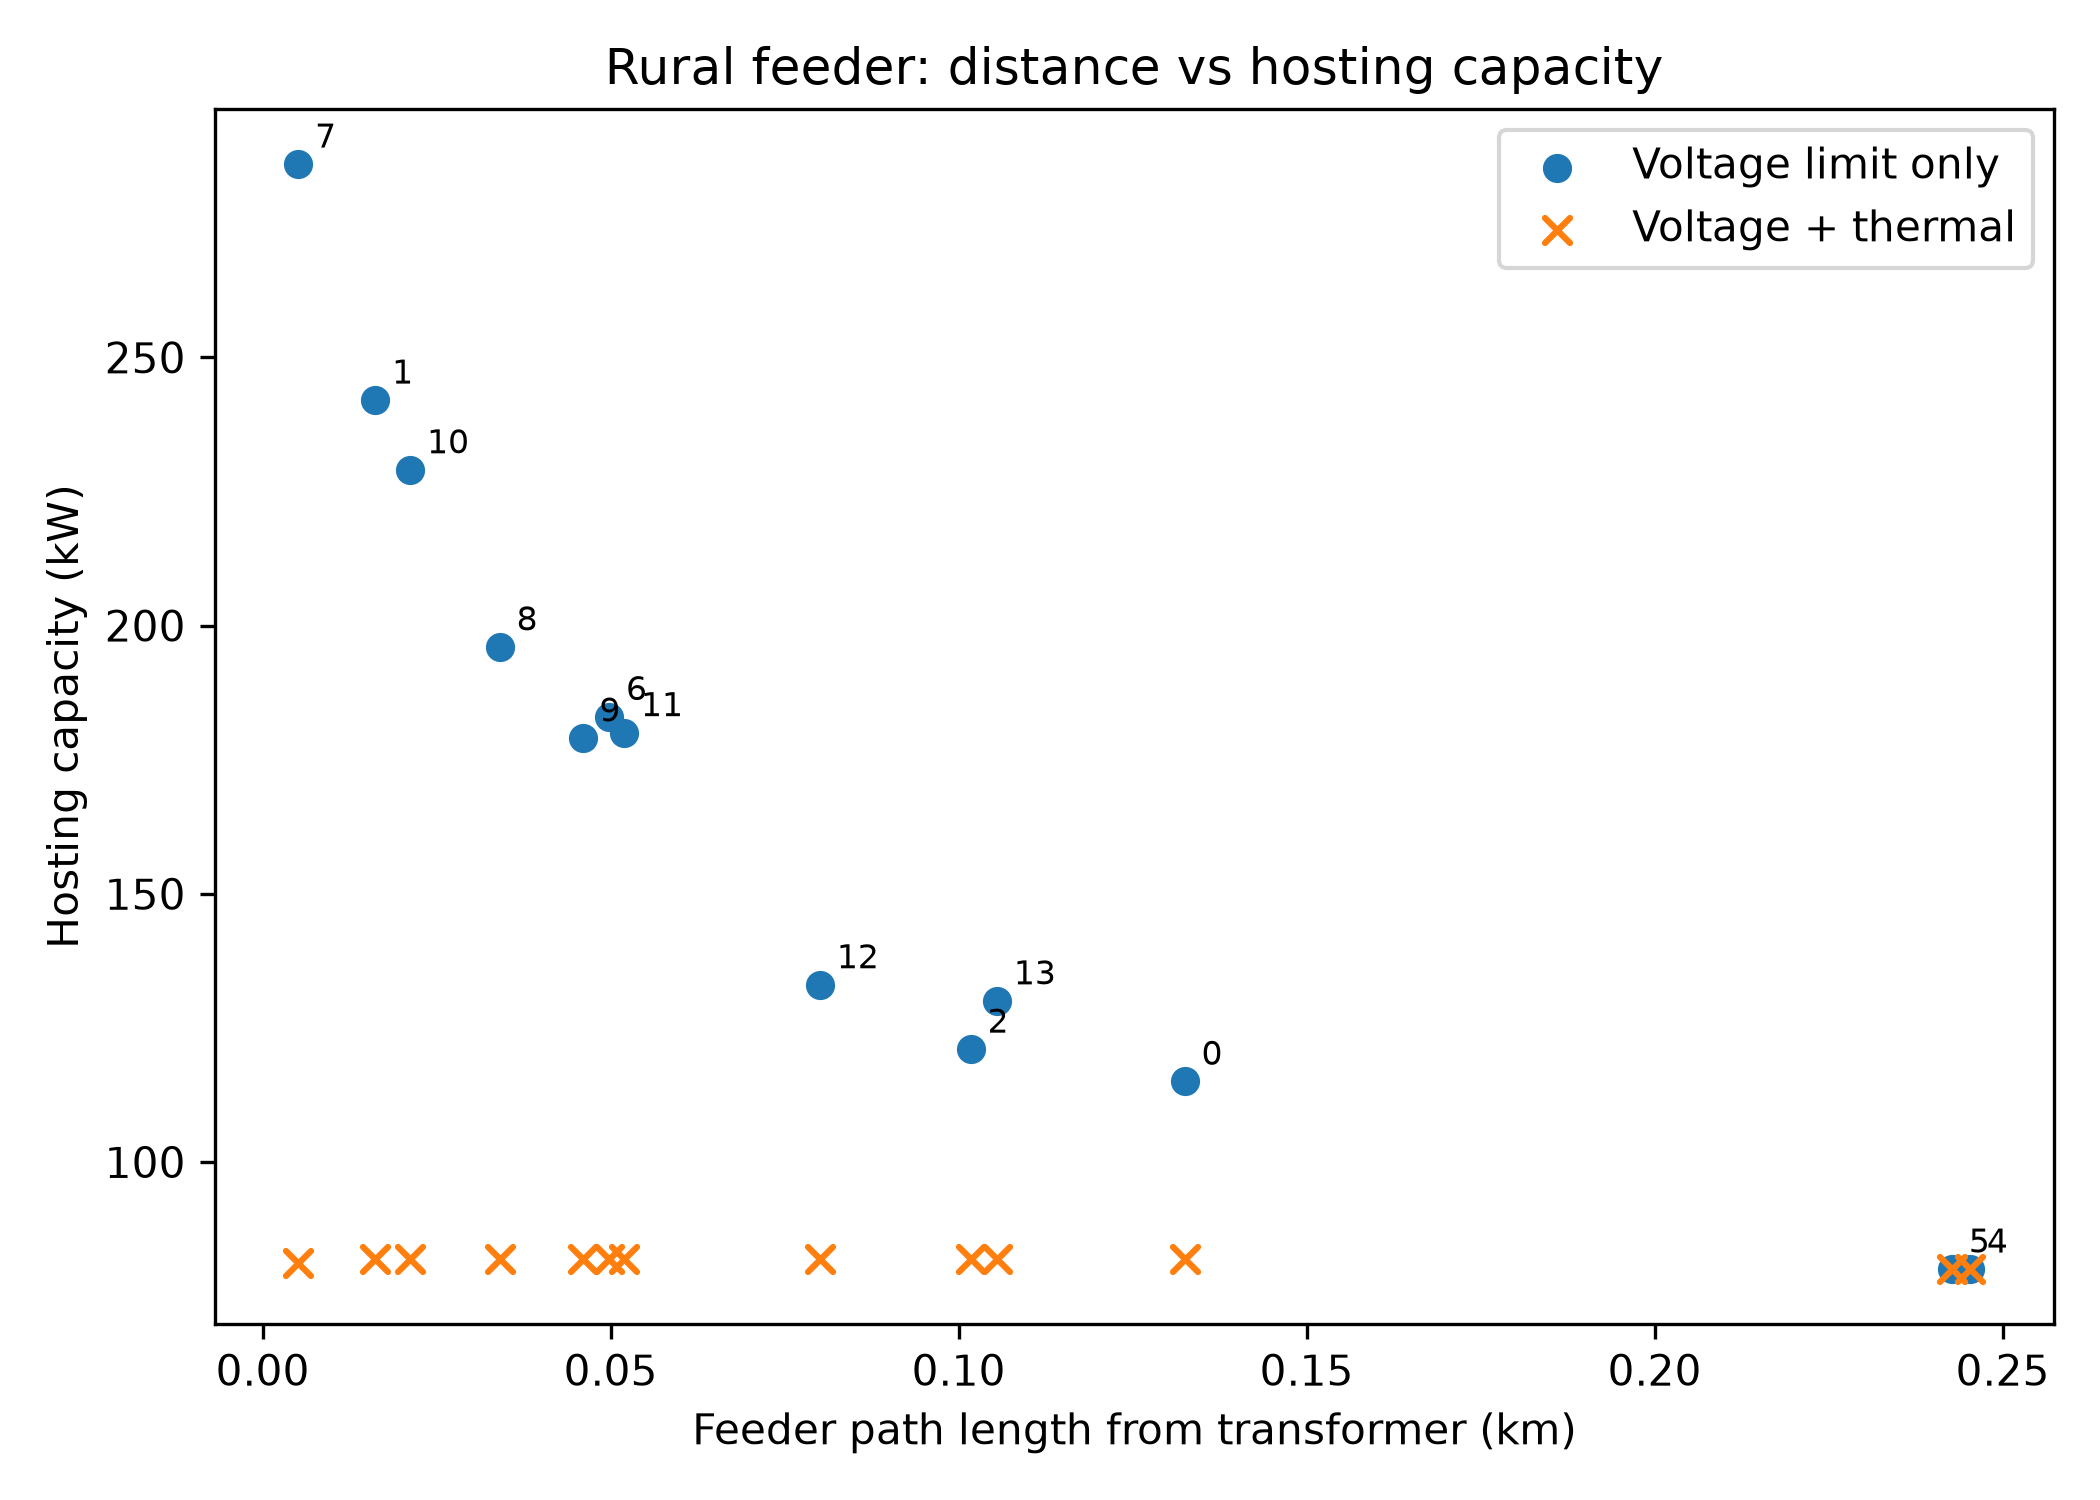
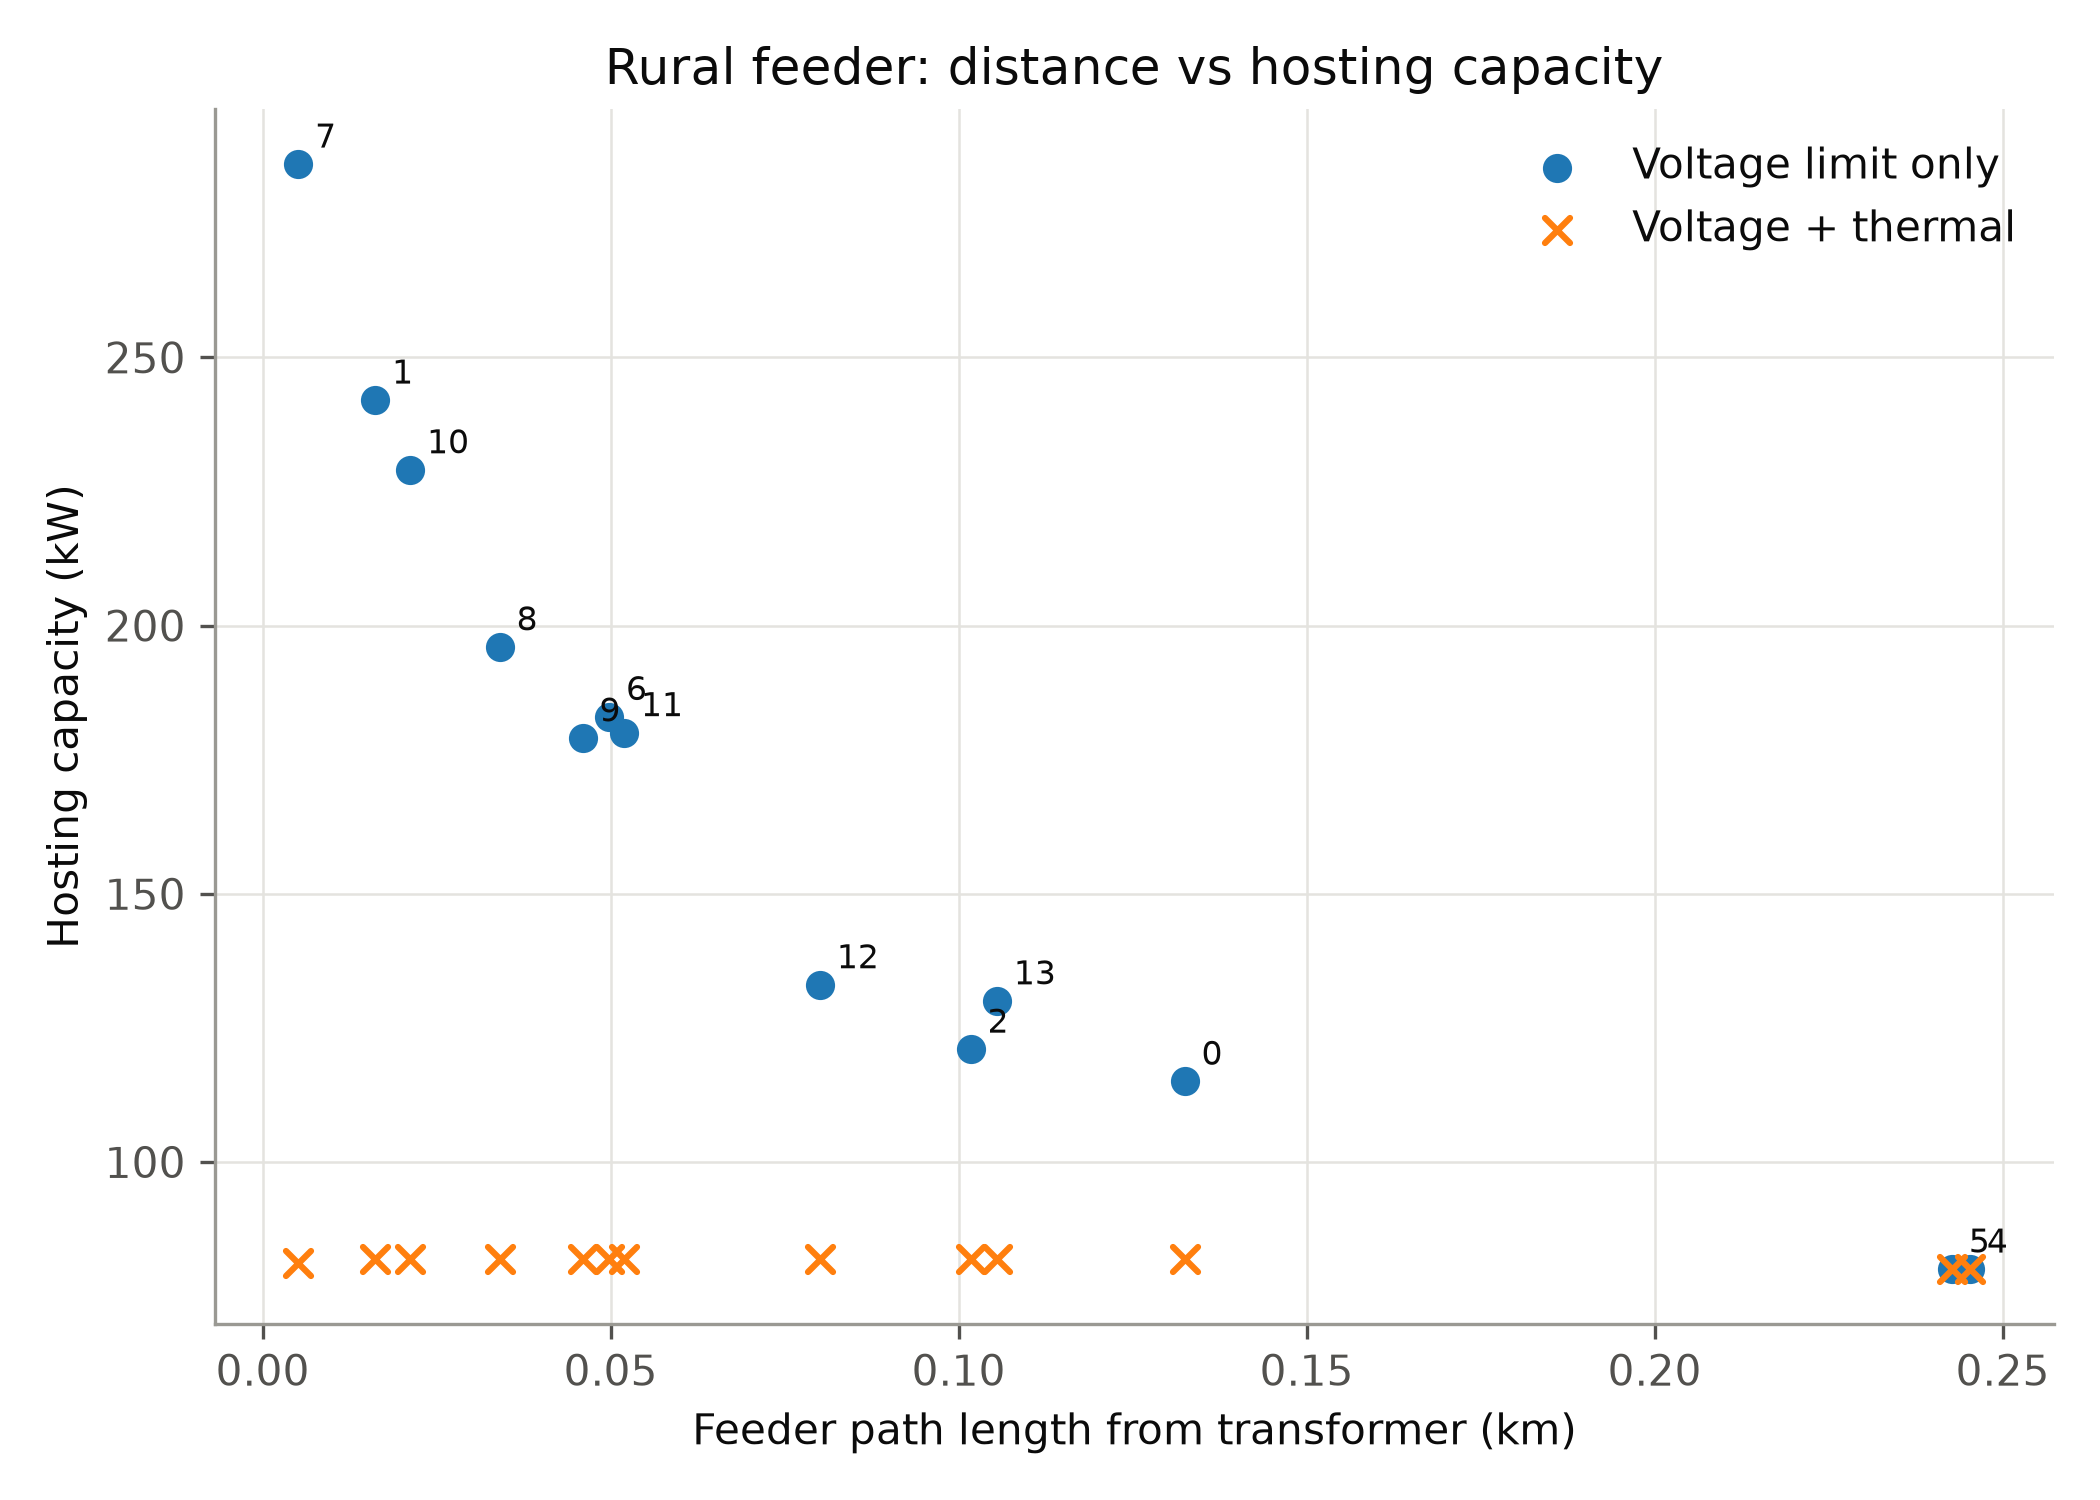
Final figures from sensitivity analysis

diff --git a/scripts/07_generate_figures.py b/scripts/07_generate_figures.py
@@ -4,48 +4,135 @@ import matplotlib.pyplot as plt
 import simbench as sb
 import pandapower.topology as top
 
-# ---------- Data ----------
-rural = pd.read_csv("results/hosting_capacity_full_comparison.csv")
-rural_th = pd.read_csv("results/rural_baseline_thermal.csv").rename(
-    columns={"hosting_capacity_kW": "baseline_thermal_kW"})
-rural = rural.merge(rural_th, on="bus").sort_values("baseline_kW").reset_index(drop=True)
-urban = pd.read_csv("results/urban_full_comparison.csv").sort_values("baseline_kW").reset_index(drop=True)
+# ---------- Style (fixed colour per control strategy across all figures) ----------
+C_NC, C_VVAR, C_VWA = "#2a78d6", "#eb6834", "#4a3aa7"   # no control, Volt-VAr, Volt-Watt adapted
+C_VWA_LIGHT = "#cfc9ee"                                  # light tint of Volt-Watt adapted (nameplate)
+INK, MUTED, GRID = "#0b0b0b", "#52514e", "#e4e3df"
 
-# ---------- Figure 1: Rural feeder, four cases ----------
-x = np.arange(len(rural))
-w = 0.2
-fig, ax = plt.subplots(figsize=(11, 5))
-ax.bar(x - 1.5 * w, rural["baseline_kW"], w, label="No control (voltage limit only)")
-ax.bar(x - 0.5 * w, rural["baseline_thermal_kW"], w, label="No control (voltage + thermal)")
-ax.bar(x + 0.5 * w, rural["voltvar_kW"], w, label="Volt-VAr (voltage + thermal)")
-ax.bar(x + 1.5 * w, rural["voltwatt_kW"], w, label="Volt-Watt (voltage + thermal)")
-ax.set_xticks(x)
-ax.set_xticklabels(rural["bus"])
-ax.set_xlabel("Bus")
-ax.set_ylabel("Hosting capacity (kW)")
-ax.set_title("Rural feeder (1-LV-rural1): hosting capacity by control strategy")
-ax.legend(fontsize=8)
+plt.rcParams.update({
+    "font.size": 10, "text.color": INK, "axes.labelcolor": INK,
+    "axes.spines.top": False, "axes.spines.right": False, "axes.edgecolor": "#9a9993",
+    "xtick.color": MUTED, "ytick.color": MUTED,
+    "axes.grid": True, "grid.color": GRID, "grid.linewidth": 0.6, "axes.axisbelow": True,
+    "legend.frameon": False,
+})
+
+
+def load_sensitivity(path):
+    df = pd.read_csv(path)
+    nameplate = df.pivot(index="bus", columns="scenario", values="nameplate_kW")
+    delivered = df.pivot(index="bus", columns="scenario", values="delivered_kW")
+    return nameplate, delivered
+
+
+def pct_vs_nc(delivered, scenario):
+    return (delivered[scenario] / delivered["NC_1.05"] - 1.0) * 100.0
+
+
+# ---------- Data ----------
+rural_np, rural_dl = load_sensitivity("results/sensitivity_rural.csv")
+urban_np, urban_dl = load_sensitivity("results/sensitivity_urban.csv")
+
+net = sb.get_simbench_net("1-LV-rural1--0-sw")
+dist_km = top.calc_distance_to_bus(net, net.trafo.lv_bus.iloc[0])
+
+# ---------- Figure 1: Rural feeder (sensitivity analysis) ----------
+order = dist_km[rural_dl.index].sort_values().index          # nearest -> farthest from transformer
+x = np.arange(len(order))
+labels = [str(int(b)) for b in order]
+
+fig, (axa, axb) = plt.subplots(2, 1, figsize=(10, 8), sharex=True)
+
+# (a) delivered capacity relative to no control
+w = 0.38
+vvar = pct_vs_nc(rural_dl, "VVAR_1.05").loc[order]
+vwa = pct_vs_nc(rural_dl, "VW_adapted_1.05").loc[order]
+axa.bar(x - w / 2, vvar, w, color=C_VVAR, edgecolor="white", linewidth=0.8, label="Volt-VAr")
+axa.bar(x + w / 2, vwa, w, color=C_VWA, edgecolor="white", linewidth=0.8, label="Volt-Watt (adapted, 1.03-1.05 pu)")
+axa.axhline(0, color=INK, linewidth=1.0)
+axa.set_ylabel("Delivered capacity vs no control (%)")
+axa.set_title("(a) Delivered hosting capacity relative to no control", loc="left", fontsize=10)
+axa.legend(loc="upper right", fontsize=9, ncol=2)
+i_min, i_max = vvar.values.argmin(), vvar.values.argmax()
+for i in (i_min, i_max):
+    axa.annotate(f"{vvar.values[i]:.1f}%", (i - w / 2, vvar.values[i]), textcoords="offset points",
+                 xytext=(0, -11), ha="center", fontsize=8, color=INK)
+axa.text(0.01, 0.06, "Volt-Watt default curve = no control (0%) at every bus (not drawn)",
+         transform=axa.transAxes, fontsize=8, color=MUTED)
+axa.set_ylim(min(vvar.min(), vwa.min()) - 1.0, 1.6)
+
+# (b) nameplate vs delivered capacity, Volt-Watt adapted
+nameplate = rural_np["VW_adapted_1.05"].loc[order]
+delivered = rural_dl["VW_adapted_1.05"].loc[order]
+axb.bar(x, nameplate, 0.72, color=C_VWA_LIGHT, edgecolor=C_VWA, linewidth=0.8,
+        label="Nameplate hosting capacity")
+axb.bar(x, delivered, 0.40, color=C_VWA, edgecolor="white", linewidth=0.8,
+        label="Delivered active power")
+axb.plot(x, rural_dl["NC_1.05"].loc[order], linestyle="none", marker="o", markersize=5,
+         markerfacecolor=C_NC, markeredgecolor="white", markeredgewidth=1.0,
+         label="No control (reference)")
+for i in (0, len(order) - 2, len(order) - 1):
+    ratio = nameplate.values[i] / delivered.values[i]
+    axb.annotate(f"{ratio:.1f}x", (i, nameplate.values[i]), textcoords="offset points",
+                 xytext=(0, 4), ha="center", fontsize=9)
+axb.set_ylabel("Hosting capacity (kW)")
+axb.set_xlabel("Bus (ordered by distance from transformer, nearest to farthest)")
+axb.set_title("(b) Volt-Watt (adapted): nameplate vs delivered", loc="left", fontsize=10)
+axb.legend(loc="upper left", fontsize=9)
+axb.set_ylim(0, nameplate.max() * 1.12)
+axb.set_xticks(x)
+axb.set_xticklabels(labels)
+for a in (axa, axb):
+    a.grid(axis="x", visible=False)
+
 plt.tight_layout()
 plt.savefig("results/fig1_rural_comparison.png", dpi=300)
 plt.close()
 
-# ---------- Figure 2: Urban feeder, three cases ----------
-xu = np.arange(len(urban))
-fig, ax = plt.subplots(figsize=(13, 5))
-ax.plot(xu, urban["baseline_kW"], marker="o", markersize=3, label="No control")
-ax.plot(xu, urban["voltvar_kW"], marker="s", markersize=3, label="Volt-VAr")
-ax.plot(xu, urban["voltwatt_kW"], marker="^", markersize=3, label="Volt-Watt")
-ax.set_xlabel("Bus (sorted by no-control capacity)")
-ax.set_ylabel("Hosting capacity (kW)")
-ax.set_title("Urban feeder (1-LV-urban6): voltage + thermal constraints, 53 buses")
-ax.legend()
+# ---------- Figure 2: Urban feeder (sensitivity analysis) ----------
+order_u = urban_dl["NC_1.05"].sort_values().index             # sorted by no-control capacity
+xu = np.arange(len(order_u))
+
+fig, (axa, axb) = plt.subplots(2, 1, figsize=(10, 8), sharex=True)
+
+vvar_u = pct_vs_nc(urban_dl, "VVAR_1.05").loc[order_u]
+vwa_u = pct_vs_nc(urban_dl, "VW_adapted_1.05").loc[order_u]
+axa.axhline(0, color=INK, linewidth=1.0)
+axa.plot(xu, vvar_u, linestyle="none", marker="o", markersize=6, markerfacecolor=C_VVAR,
+         markeredgecolor="white", markeredgewidth=1.0, label="Volt-VAr")
+axa.plot(xu, vwa_u, linestyle="none", marker="^", markersize=6, markerfacecolor=C_VWA,
+         markeredgecolor="white", markeredgewidth=1.0, label="Volt-Watt (adapted, 1.03-1.05 pu)")
+axa.set_ylabel("Delivered capacity vs no control (%)")
+axa.set_title("(a) Delivered hosting capacity relative to no control", loc="left", fontsize=10)
+axa.legend(loc="lower right", fontsize=9)
+j = vvar_u.values.argmin()
+axa.annotate(f"{vvar_u.values[j]:.1f}%", (j, vvar_u.values[j]), textcoords="offset points",
+             xytext=(8, -3), ha="left", fontsize=8)
+axa.text(0.01, 0.06, "Volt-Watt default curve = no control (0%) at every bus (not drawn)",
+         transform=axa.transAxes, fontsize=8, color=MUTED)
+axa.set_ylim(min(vvar_u.min(), vwa_u.min()) - 0.5, 0.5)
+
+axb.plot(xu, urban_dl["NC_1.05"].loc[order_u], color=C_NC, linewidth=2, label="No control (delivered)")
+axb.plot(xu, urban_np["VW_adapted_1.05"].loc[order_u], color=C_VWA, linewidth=2, linestyle="--",
+         marker="^", markersize=4, markerfacecolor=C_VWA, markeredgecolor="white",
+         label="Volt-Watt (adapted), nameplate")
+axb.set_ylabel("Hosting capacity (kW)")
+axb.set_xlabel("Bus rank (ordered by no-control capacity, lowest to highest)")
+axb.set_title("(b) No-control capacity vs Volt-Watt (adapted) nameplate", loc="left", fontsize=10)
+axb.legend(loc="upper left", fontsize=9)
+axb.set_ylim(0, urban_np["VW_adapted_1.05"].max() * 1.08)
+for a in (axa, axb):
+    a.grid(axis="x", visible=False)
+
 plt.tight_layout()
 plt.savefig("results/fig2_urban_comparison.png", dpi=300)
 plt.close()
 
-# ---------- Figure 3: Path length vs capacity (rural) ----------
-net = sb.get_simbench_net("1-LV-rural1--0-sw")
-dist_km = top.calc_distance_to_bus(net, net.trafo.lv_bus.iloc[0])
+# ---------- Figure 3: Path length vs capacity (rural), unchanged ----------
+rural = pd.read_csv("results/hosting_capacity_full_comparison.csv")
+rural_th = pd.read_csv("results/rural_baseline_thermal.csv").rename(
+    columns={"hosting_capacity_kW": "baseline_thermal_kW"})
+rural = rural.merge(rural_th, on="bus").sort_values("baseline_kW").reset_index(drop=True)
 rural["distance_km"] = rural["bus"].map(dist_km)
 
 fig, ax = plt.subplots(figsize=(7, 5))
